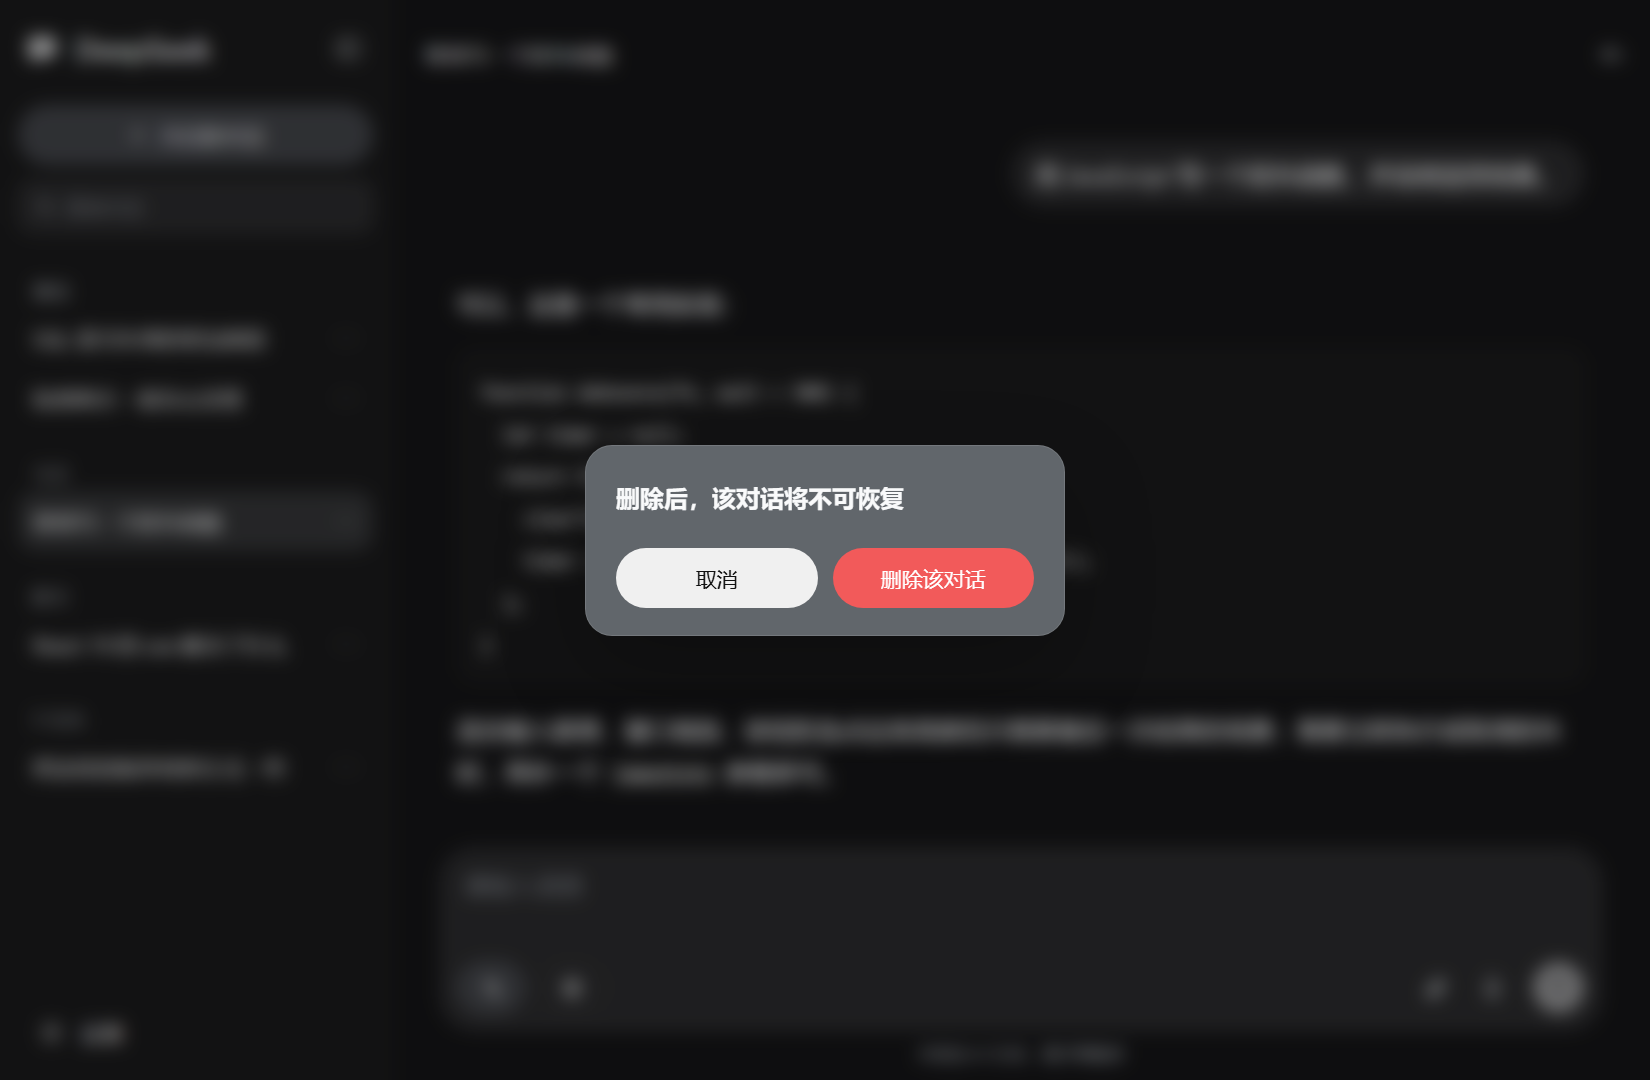
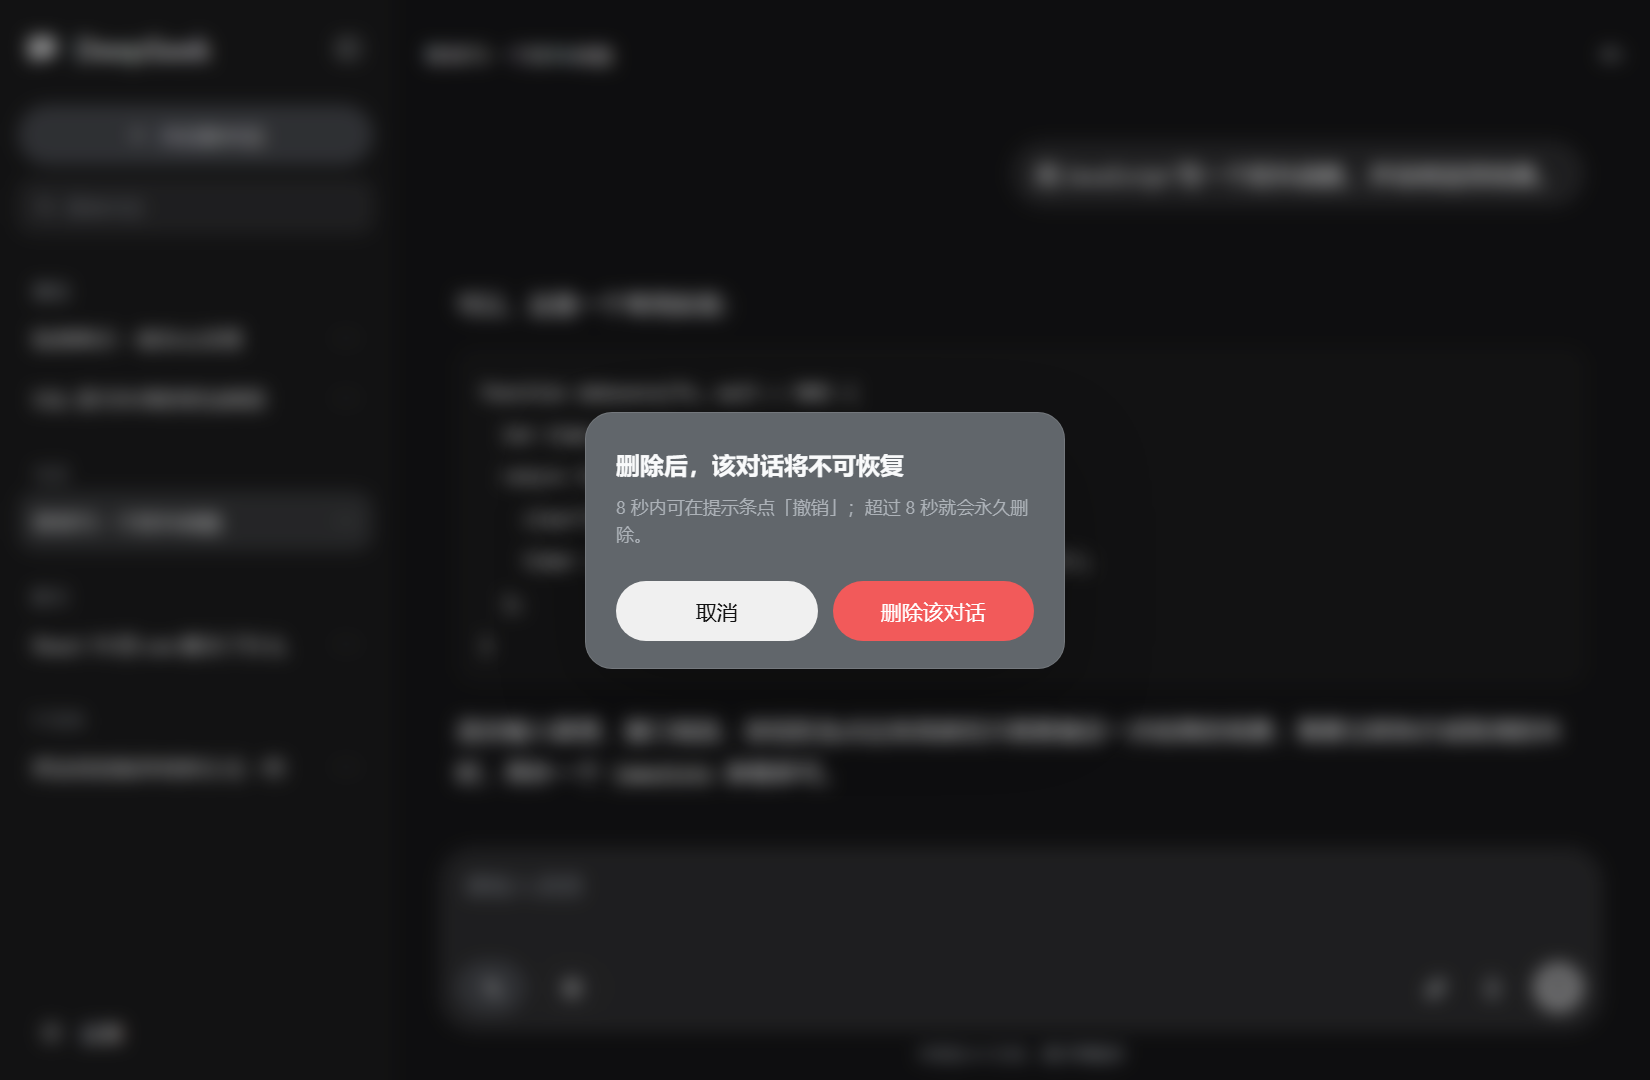
fix: explain the 8-second undo in the delete confirmation (v1.10.2)
- the dialog headline keeps the original wording ("cannot be restored after
  deletion") and now carries a note: undo from the toast within 8 seconds, then
  the deletion is permanent
- both READMEs describe the updated confirmation and the refreshed screenshot
  shows the note
- a render test asserts the note text; PLUGIN_VERSION follows package.json

Changed region(s): [[0.34, 0.3667, 0.6491, 0.6417], [0.1236, 0.3056, 0.1545, 0.3361]]

diff --git a/client.js b/client.js
@@ -13,7 +13,7 @@ window.__ModuleLoader__.load({
     const NS = 'deepseek-chat-ui';
     const API = '/chat-replica';
     /** 设置面板底部展示的版本；必须与 package.json 的 version 一致（元数据测试校验）。 */
-    const PLUGIN_VERSION = '1.10.1';
+    const PLUGIN_VERSION = '1.10.2';
     const REPO_URL = 'https://github.com/AlphaAntivoid/dsh-chat-replica';
     const STORE_THREADS = 'deepseek-chat-ui.threads.v1';
     const STORE_ACTIVE = 'deepseek-chat-ui.active.v1';
@@ -165,6 +165,7 @@ window.__ModuleLoader__.load({
       'rename.save': '保存',
       'delete.title': '删除后，该对话将不可恢复',
       'delete.titleMulti': '删除后，选中的 {count} 个对话将不可恢复',
+      'delete.undoNote': '8 秒内可在提示条点「撤销」；超过 8 秒就会永久删除。',
       'delete.action': '删除该对话',
       'delete.actionMulti': '删除选中的 {count} 个对话',
       'select.count': '已选 {count} 个',
@@ -310,6 +311,7 @@ window.__ModuleLoader__.load({
       'rename.save': 'Save',
       'delete.title': 'This conversation cannot be restored after deletion',
       'delete.titleMulti': 'The selected {count} conversations cannot be restored after deletion',
+      'delete.undoNote': 'You can undo within 8 seconds from the toast; after that it is permanent.',
       'delete.action': 'Delete conversation',
       'delete.actionMulti': 'Delete {count} conversations',
       'select.count': '{count} selected',
@@ -2664,6 +2666,7 @@ window.__ModuleLoader__.load({
             onKeyDown: onDialogKeyDown,
           },
           h('h3', { className: 'cd-delete-title' }, title),
+          h('p', { className: 'cd-delete-note' }, t('delete.undoNote')),
           h(
             'div',
             { className: 'cd-delete-actions' },
@@ -4895,6 +4898,7 @@ body[data-ds-dark-theme] .cd-send:disabled{opacity:.55}
 .cd-dialog-actions{display:flex;justify-content:flex-end;gap:10px;margin-top:18px}
 .cd-delete-confirm{max-width:320px;padding:22px 20px 18px}
 .cd-delete-title{margin:0;color:var(--dsw-alias-label-primary);font-size:16px;font-weight:600;line-height:24px}
+.cd-delete-note{margin:8px 0 0;color:var(--dsw-alias-label-tertiary);font-size:12px;line-height:18px}
 .cd-delete-actions{display:flex;gap:10px;margin-top:22px}
 .cd-confirm-pill{display:inline-flex;flex:1;align-items:center;justify-content:center;height:40px;padding:0 14px;border:none;border-radius:999px;font-family:inherit;font-size:14px;font-weight:500;line-height:20px;white-space:nowrap;cursor:pointer;transition:background-color .15s,opacity .15s}
 .cd-confirm-pill:focus-visible{outline:2px solid var(--dsw-alias-brand-primary);outline-offset:2px}

diff --git a/README.en.md b/README.en.md
@@ -66,8 +66,9 @@ The "⋯" on the right of every conversation opens:
 The delete confirmation is intentionally fixed in wording and styling:
 
 1. Title: `This conversation cannot be restored after deletion` (multi-select: `The selected N conversations cannot be restored after deletion`)
-2. Red pill with white text: `Delete conversation`
-3. Light-grey pill with black text: `Cancel`, focused by default, so pressing Enter cancels
+2. A note under the title: `You can undo within 8 seconds from the toast; after that it is permanent.`
+3. Red pill with white text: `Delete conversation`
+4. Light-grey pill with black text: `Cancel`, focused by default, so pressing Enter cancels
 
 After confirming, a toast stays for **8 seconds** with an "Undo" action: undoing restores the deleted
 conversations, their drafts and the conversation that was open at the time. After 8 seconds — or once another

diff --git a/CHANGELOG.md b/CHANGELOG.md
@@ -3,6 +3,18 @@
 每个版本同时保留中文与 English 两小节；`scripts/release-notes.mjs` 会取出版本对应小节作为 GitHub Release 的正文。
 Every version keeps a Chinese and an English section together; `scripts/release-notes.mjs` turns that section into the GitHub Release body.
 
+## 1.10.2
+
+### 中文
+
+- 删除确认弹窗补一行小字：`8 秒内可在提示条点「撤销」；超过 8 秒就会永久删除。`，标题保持原样
+- 中英 README 的删除确认规格同步更新；渲染测试校验这行说明文案
+
+### English
+
+- The delete confirmation now carries a note: "You can undo within 8 seconds from the toast; after that it is permanent.", while the headline stays unchanged
+- Both READMEs describe the updated confirmation, and a render test asserts the note
+
 ## 1.10.1
 
 ### 中文

diff --git a/README.md b/README.md
@@ -65,8 +65,9 @@
 删除确认的文案与样式固定：
 
 1. 标题：`删除后，该对话将不可恢复`（多选时为「删除后，选中的 N 个对话将不可恢复」）
-2. 红色气泡 + 白字：`删除该对话`
-3. 灰白色 + 黑字：`取消`，默认聚焦，所以回车等于取消
+2. 标题下小字：`8 秒内可在提示条点「撤销」；超过 8 秒就会永久删除。`
+3. 红色气泡 + 白字：`删除该对话`
+4. 灰白色 + 黑字：`取消`，默认聚焦，所以回车等于取消
 
 确认后提示条会保留 **8 秒**，带一个「撤销」：撤销会恢复被删的会话、它们的草稿，以及当时正打开的那条。
 超过 8 秒，或期间又删除了别的会话（撤销快照只保留最近一次），就真的不可恢复了。
